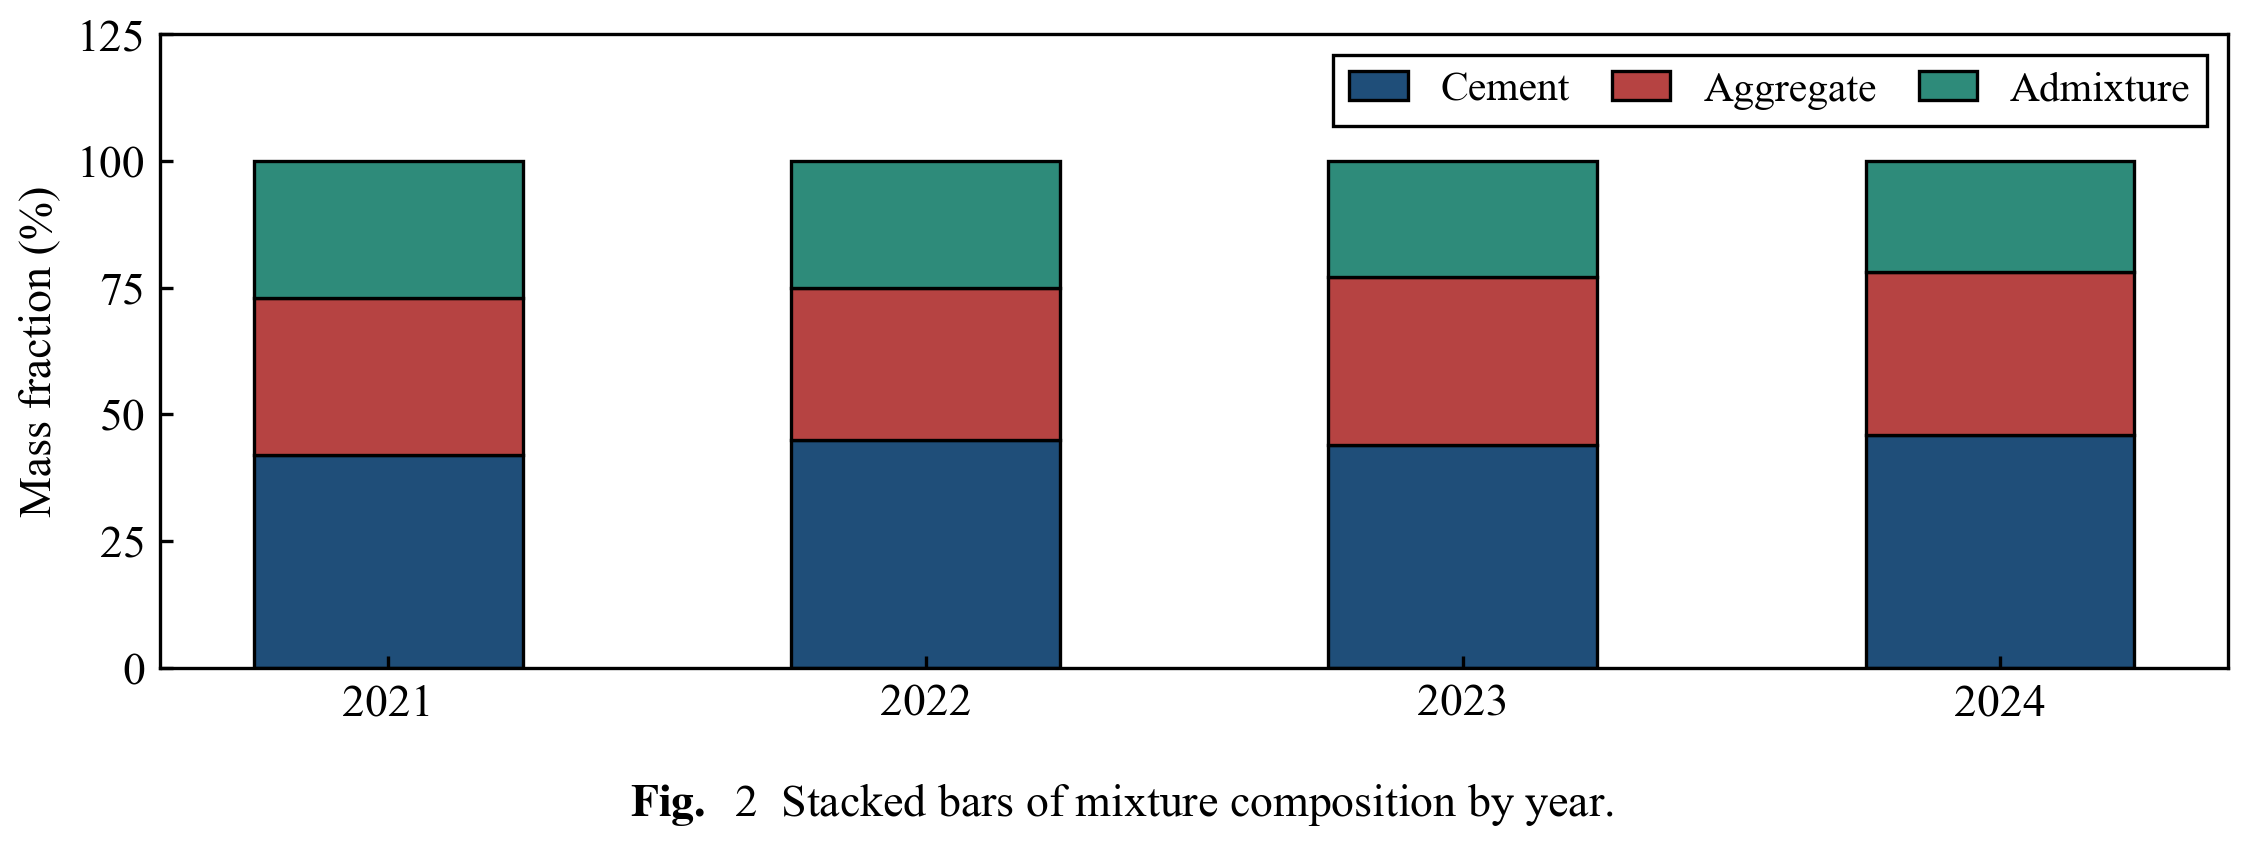
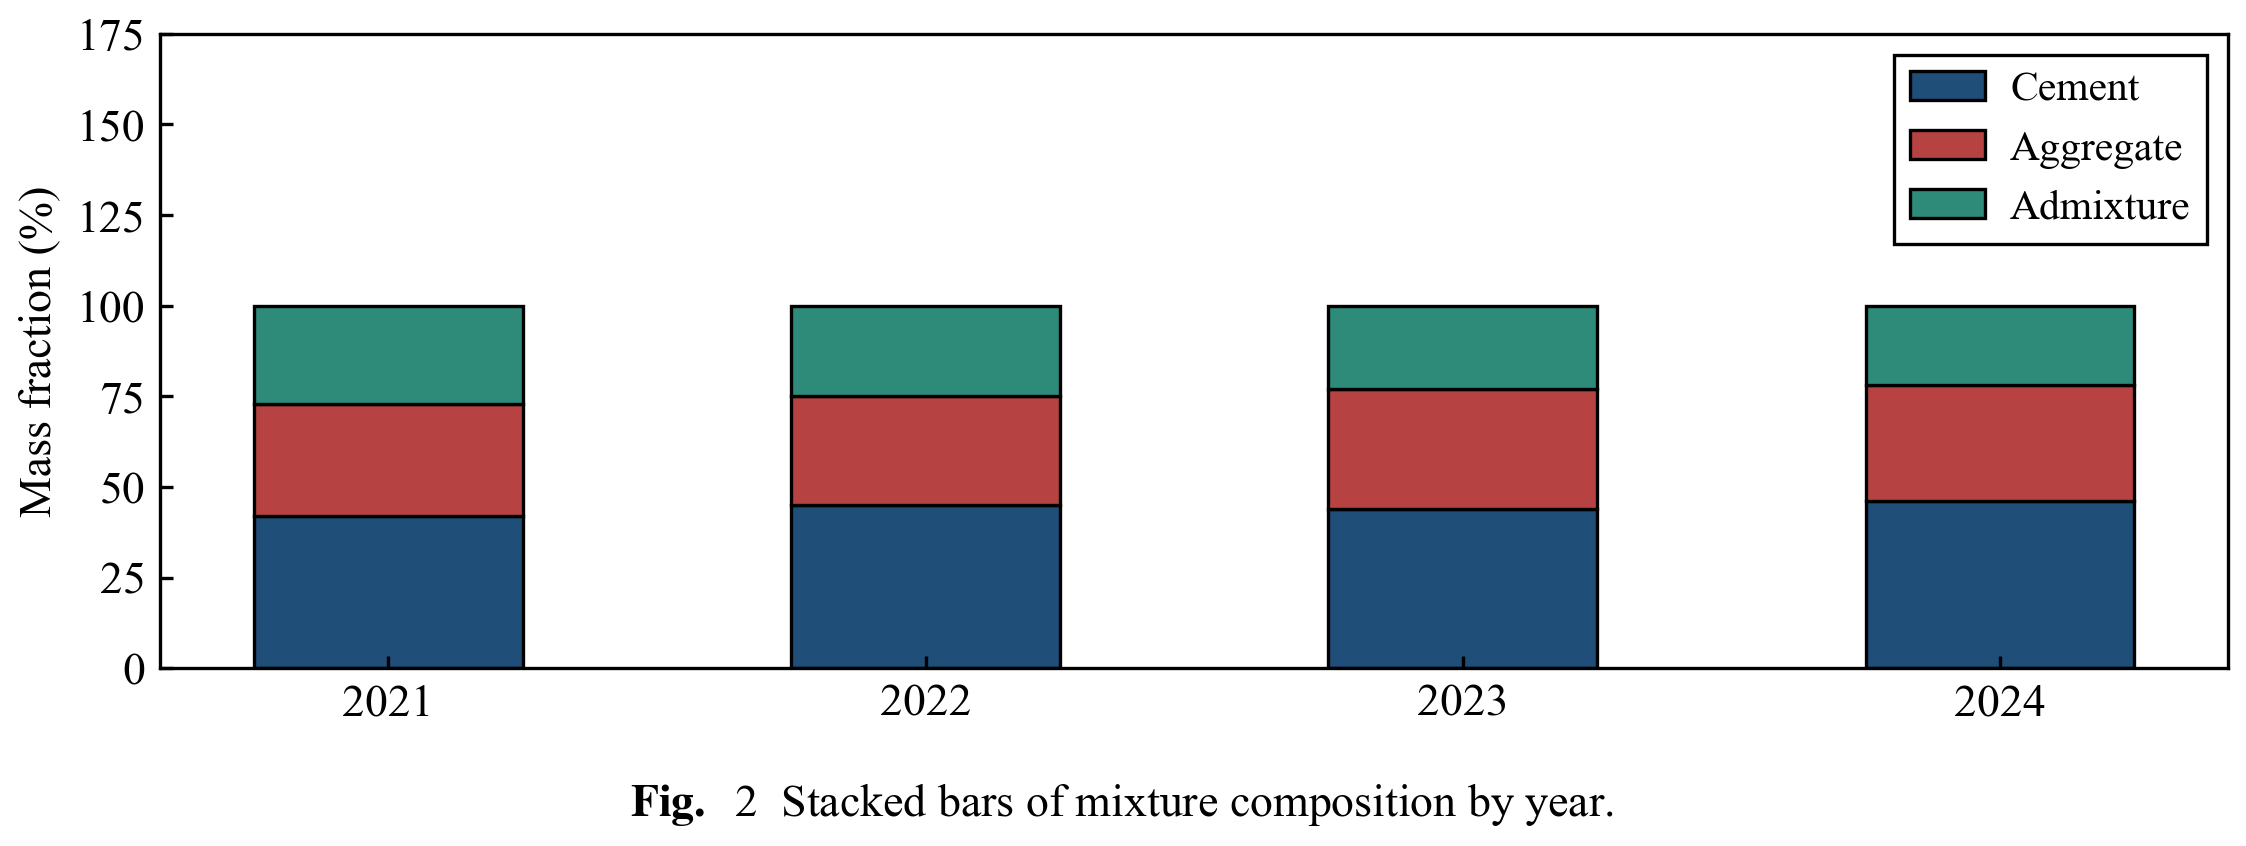
Stacked bar: vertical legend like the grouped bar, with a raised y-limit
Instead of a full-width three-column legend, fig_stacked_bar now places a
vertical (ncol=1) legend in the headroom created by raising the upper y-limit to
~165 (the stack tops out at 100). The auto-placement then keeps it there with
zero overlap at both 90 mm and 190 mm.

diff --git a/examples/gallery.py b/examples/gallery.py
@@ -106,8 +106,10 @@ def fig_stacked_bar():
     ax.set_xticks(x)
     ax.set_xticklabels(cats)
     ax.set_ylabel("Mass fraction (%)")
-    ax.set_ylim(0, 118)
-    framed_legend(ax, loc="upper left", ncol=3, columnspacing=1.0, handlelength=1.4)
+    # raise the upper y-limit so a vertical legend fits in the headroom above
+    # the bars (the stack tops out at 100)
+    ax.set_ylim(0, 165)
+    framed_legend(ax, loc="upper left", ncol=1, handlelength=1.8, handletextpad=0.6)
     add_caption_below(fig, r"$\mathbf{Fig.}$  2  Stacked bars of mixture composition by year.")
     return fig
 
